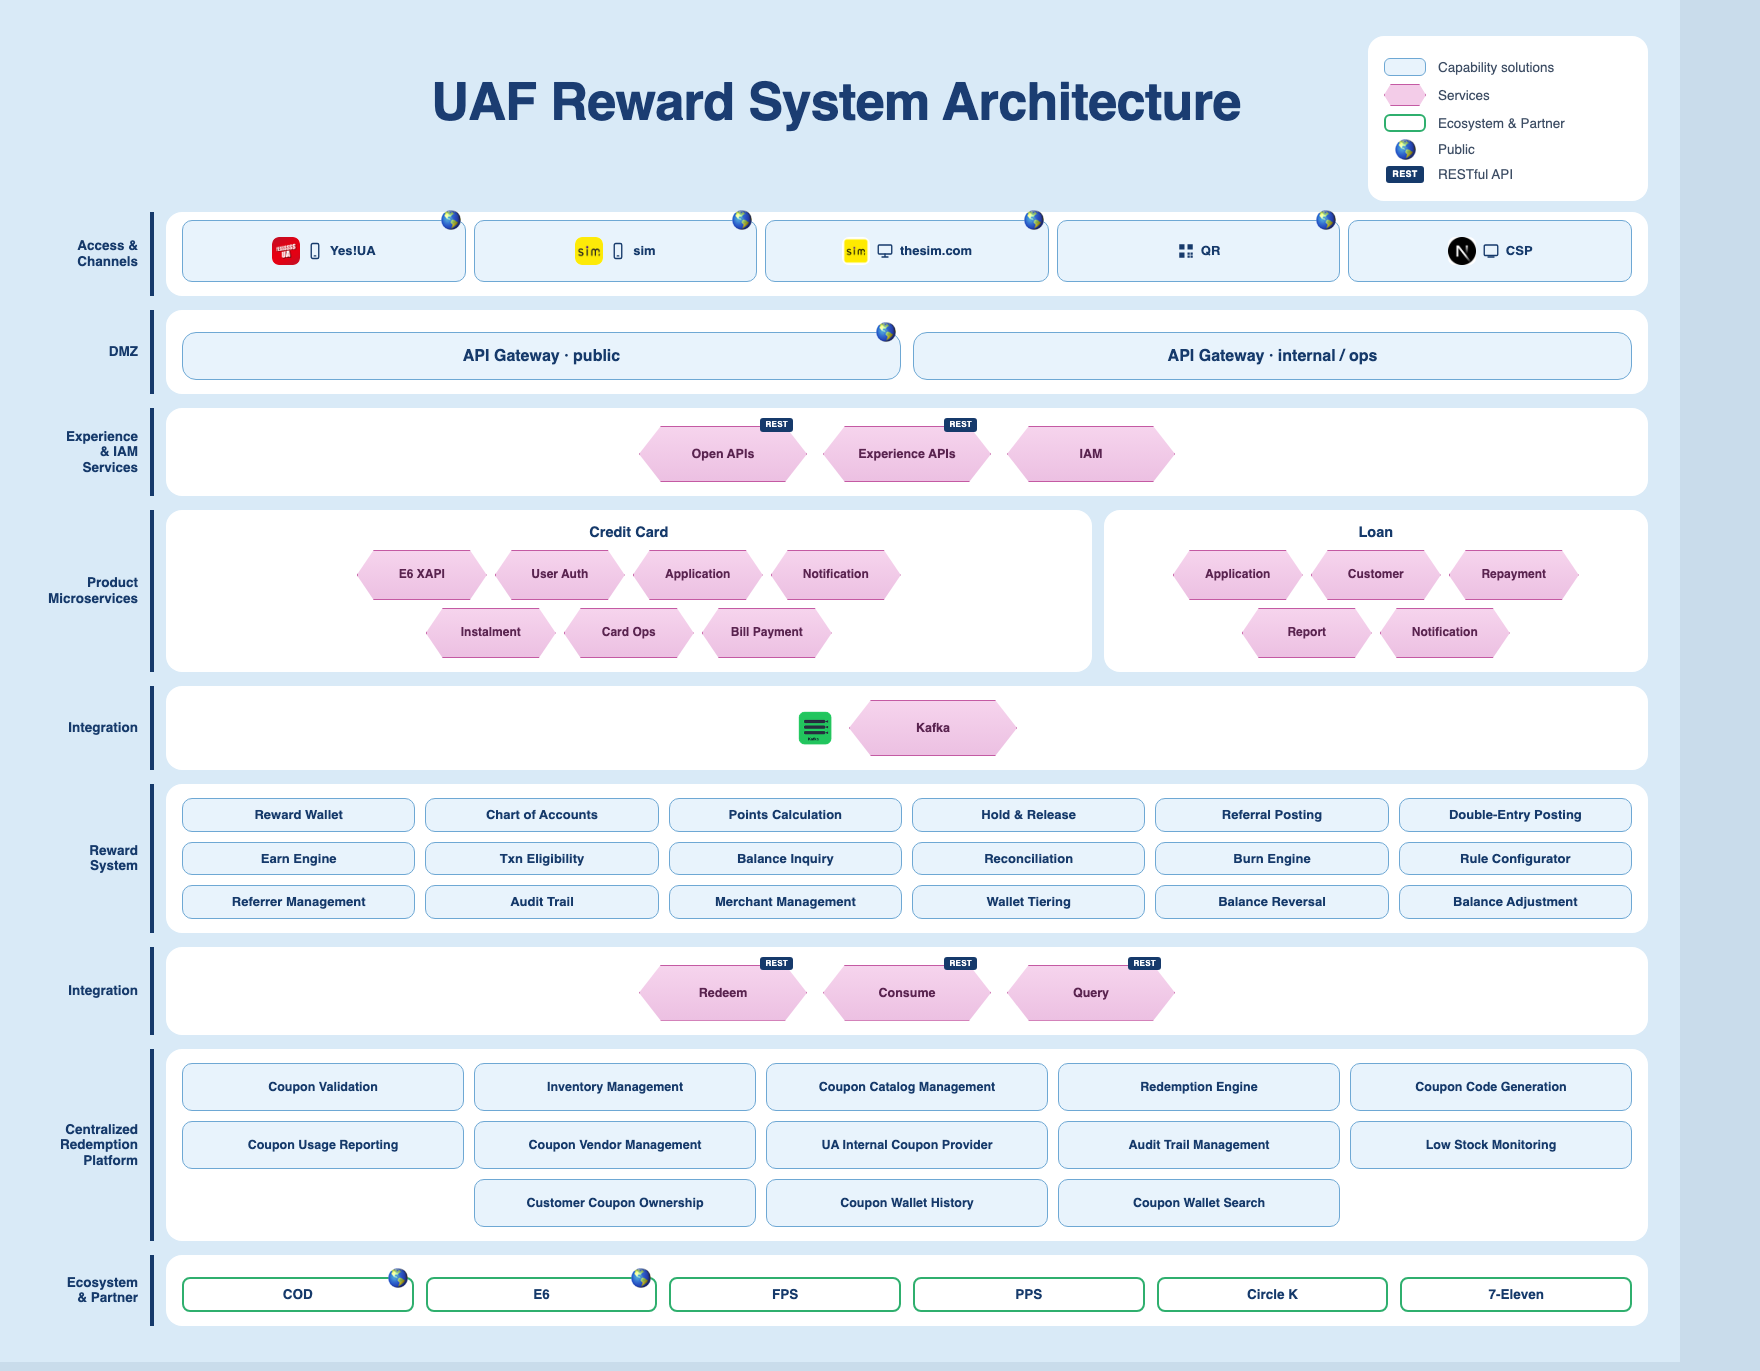
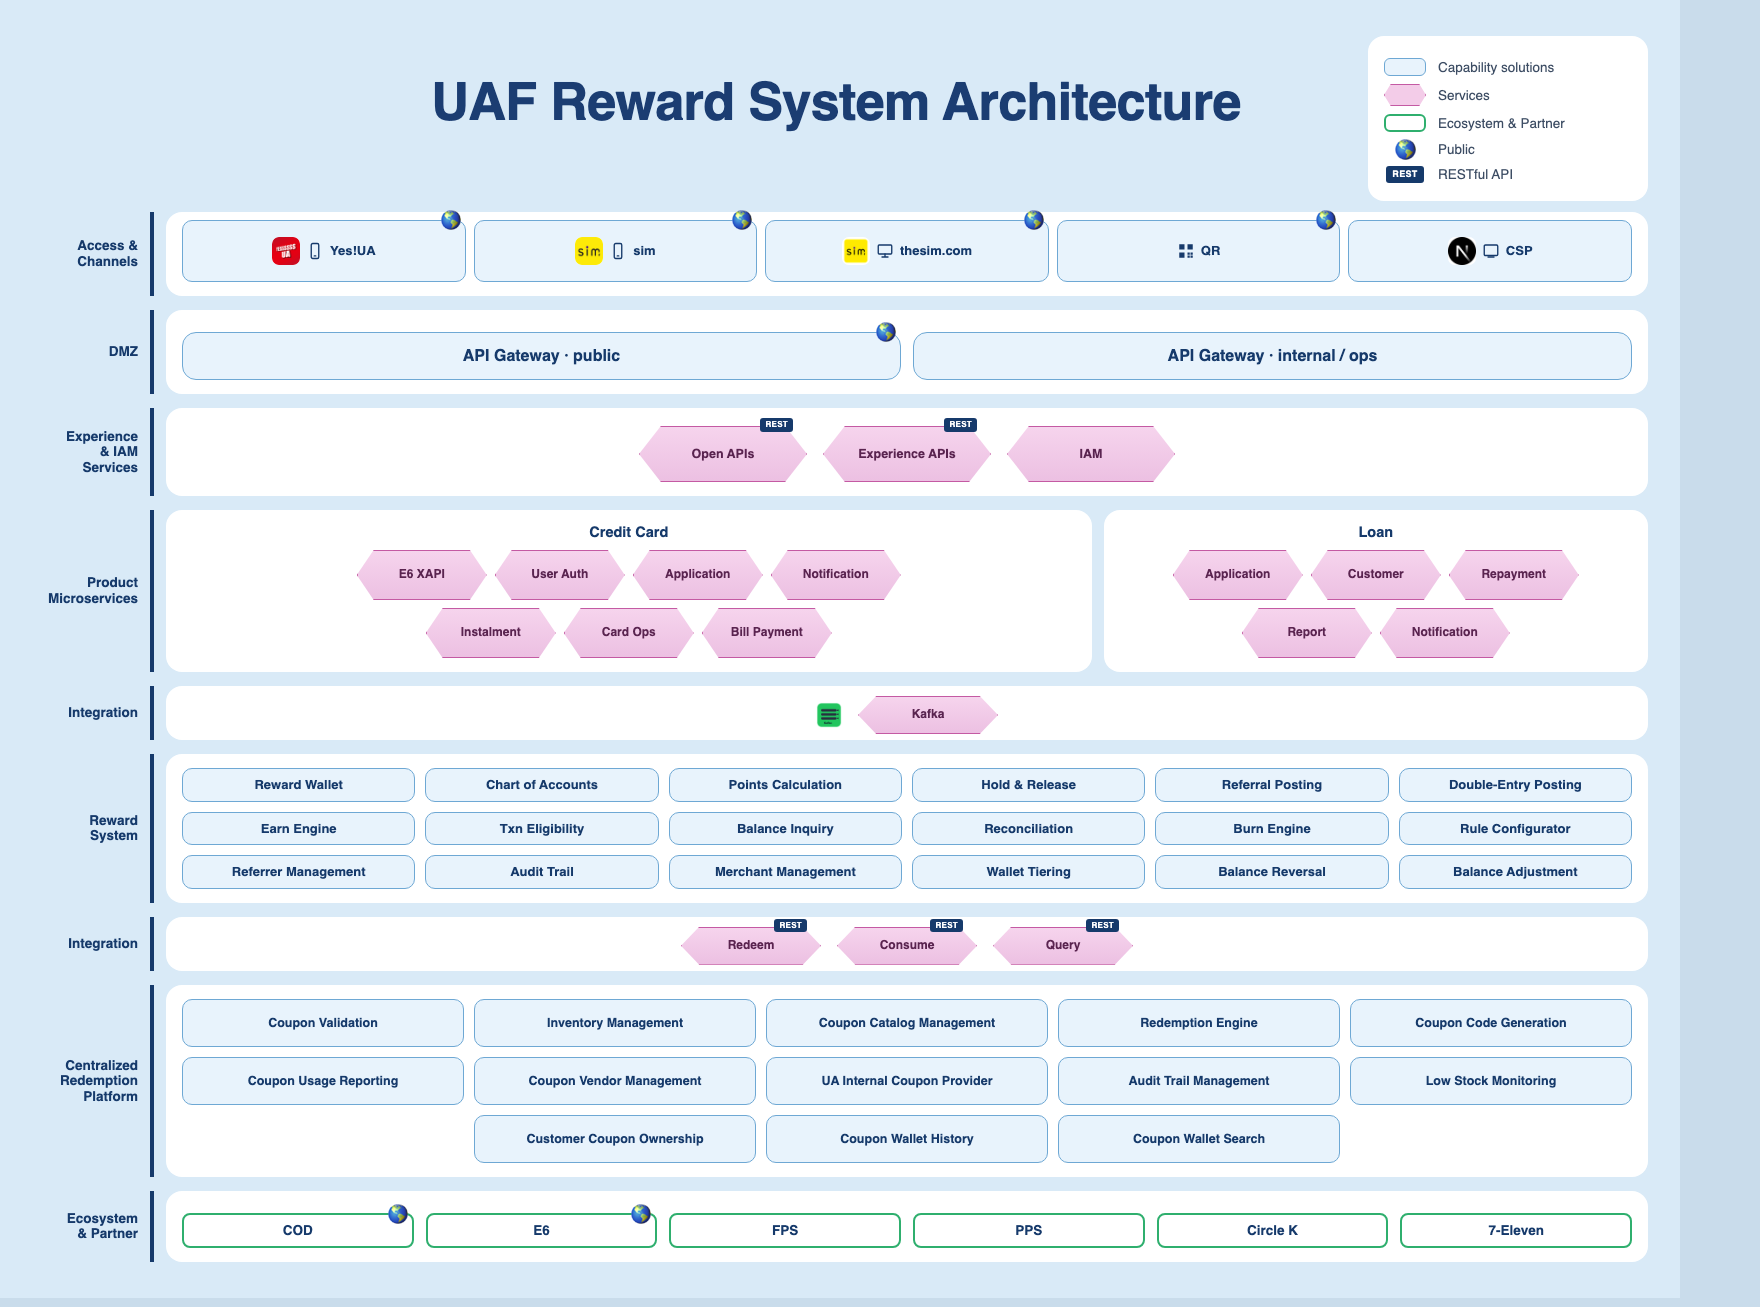
docs(decks): thinner Integration layers (Kafka + Redeem/Consume/Query)

diff --git a/docs/decks/uaf-rewards-logical-architecture.html b/docs/decks/uaf-rewards-logical-architecture.html
@@ -71,6 +71,11 @@
   .prod .hexrow{gap:8px}
   .prod .hexrow .svc{width:130px;min-height:50px;font-size:12px}
   .klogo{width:36px;height:36px;object-fit:contain;flex-shrink:0}
+  .thin-int{padding:6px 16px}
+  .thin-int.hexrow{padding-top:10px}
+  .thin-int .svc{min-height:38px;width:140px;padding:6px 10px;font-size:12px}
+  .thin-int .svcw{width:140px}
+  .thin-int .klogo{width:26px;height:26px}
 
   .l1{grid-column:1;grid-row:1}
   .c1{grid-column:2;grid-row:1}
@@ -181,7 +186,7 @@
     </div>
 
     <div class="lab l5">Integration</div>
-    <div class="card c5 hexrow">
+    <div class="card c5 hexrow thin-int">
       <img class="klogo" src="logos/kafka.png" alt="Kafka"/>
       <div class="svc">Kafka</div>
     </div>
@@ -211,7 +216,7 @@
     </div>
 
     <div class="lab l7">Integration</div>
-    <div class="card c7 hexrow" style="padding-top:18px">
+    <div class="card c7 hexrow thin-int">
       <div class="svcw"><div class="svc">Redeem</div><span class="badge-rest">REST</span></div>
       <div class="svcw"><div class="svc">Consume</div><span class="badge-rest">REST</span></div>
       <div class="svcw"><div class="svc">Query</div><span class="badge-rest">REST</span></div>
